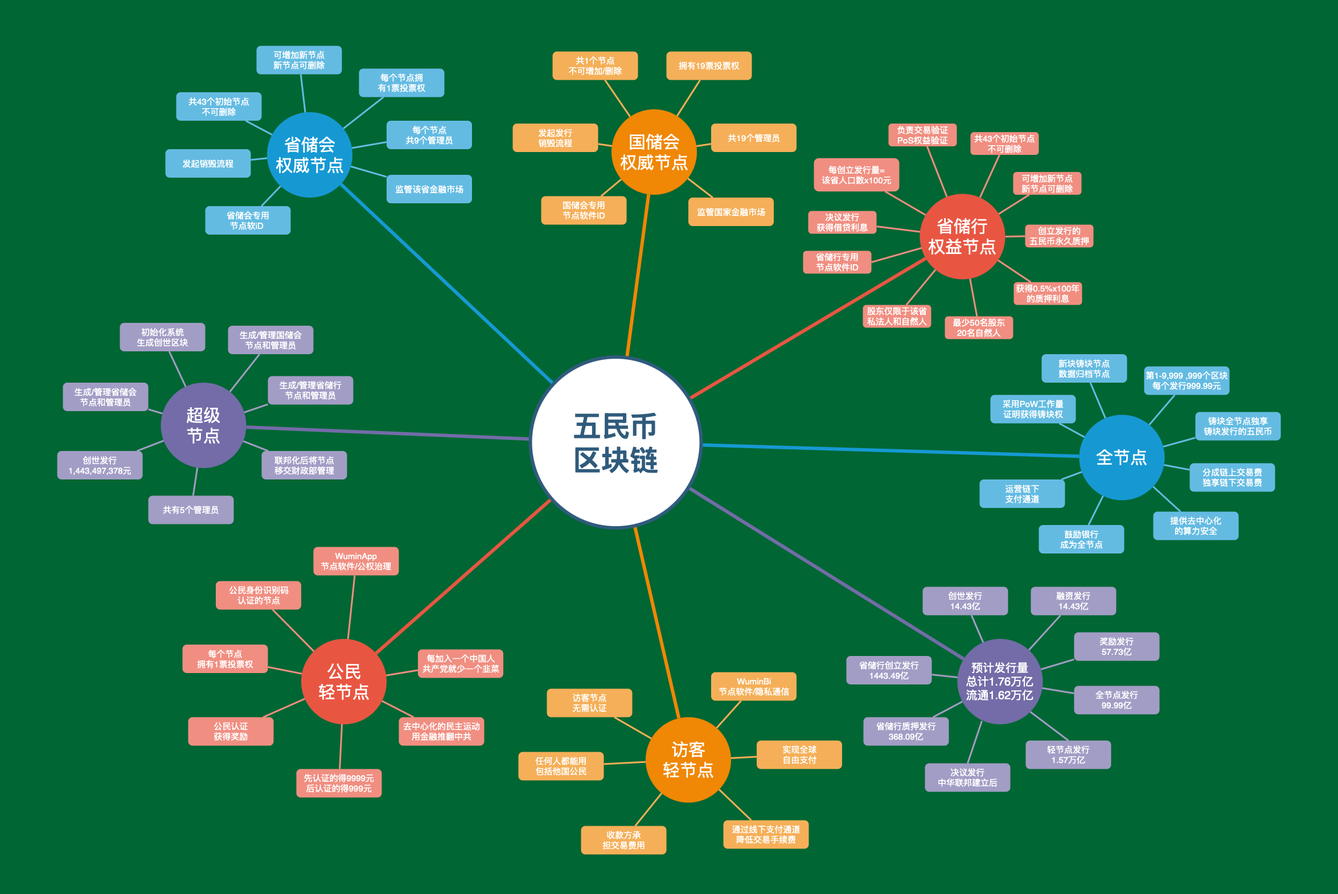
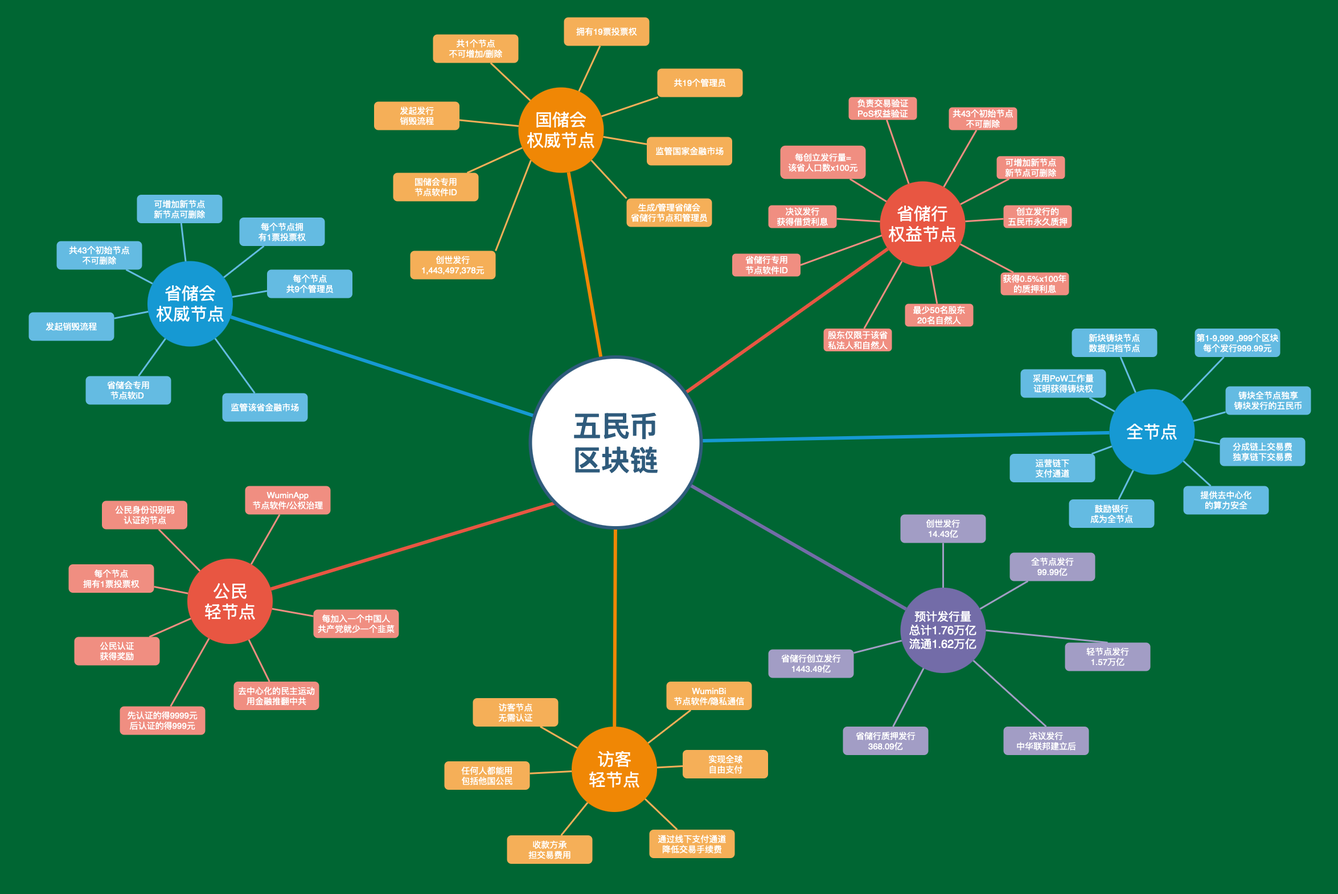
gx

diff --git a/README.md b/README.md
@@ -15,27 +15,24 @@
   <summary>2. 节点设置</summary>
 
   [2.1. 节点类型](#21节点概览)
-  [2.2. 超级节点](#22超级节点)
-  [2.3. 国储会权威节点](#23国储会权威节点)
-  [2.4. 省储会权威节点](#24省储会权威节点)
-  [2.5. 省储行权益节点](#25省储行权益节点)
-  [2.6. 全节点](#26全节点)
-  [2.7. 公民轻节点](#27公民轻节点)
-  [2.8. 访客轻节点](#28访客轻节点)
+  [2.2. 国储会权威节点](#22国储会权威节点)
+  [2.3. 省储会权威节点](#23省储会权威节点)
+  [2.4. 省储行权益节点](#24省储行权益节点)
+  [2.5. 全节点](#25全节点)
+  [2.6. 公民轻节点](#26公民轻节点)
+  [2.7. 访客轻节点](#27访客轻节点)
   </details>
 
 - <details>
   <summary>3. 发行与销毁</summary>
 
   [3.1. 创世发行](#31创世发行)
-  [3.2. 融资发行](#32融资发行)
-  [3.3. 奖励发行](#33奖励发行)
-  [3.4. 省储行创立发行](#34省储行创立发行)
-  [3.5. 省储行质押发行](#35省储行质押发行)
-  [3.6. 全节点发行](#36全节点发行)
-  [3.7. 轻节点发行](#37轻节点发行)
-  [3.8. 决议发行](#38决议发行)
-  [3.9. 销毁](#39销毁)
+  [3.2. 省储行创立发行](#32省储行创立发行)
+  [3.3. 省储行质押发行](#33省储行质押发行)
+  [3.4. 全节点发行](#34全节点发行)
+  [3.5. 轻节点发行](#35轻节点发行)
+  [3.6. 决议发行](#36决议发行)
+  [3.7. 销毁](#37销毁)
   </details>
 
 - <details>
@@ -72,7 +69,7 @@
 ****
 # 1.总则
 ## 1.1.目的与背景
-* 基于区块链技术用于推动由五民党发起的<<去中心化民主运动>>的主权区块链系统，创立五民币区块链，推广去中心化民主运动，以建立自由民主的中华民族联邦共和国；
+* 基于区块链技术用于推动由五民党发起的<<去中心化民主运动>>的主权区块链系统，创立五民币区块链，推广去中心化民主运动，以建立自由民主的中华民族联邦共和国————中华联邦；
 * 五民币区块链是一个不受任何机构掌控的主权区块链系统，一个所有人都能自由使用的法定货币系统，一个所有中华民族联邦共和国公民都能参与投票治理的法定区块链系统；
 * 五民币区块链是一个结合公权、金融、市场和区块链的综合系统，将民主化运动和建立联邦制共和国与去中心化的区块链系统深度绑定，以此构建一个具有公信、安全、开放、透明、高效的主权区块链系统。
 
@@ -85,13 +82,11 @@
 ## 1.3.发行量概览
    |    发行类型      |            发行金额/简述            |         发行方       |          备注             |
    |:---------------:|:---------------------------------:|:-------------------:|:------------------------:|
-   |   创世发行       |   1,443,497,378.00元 = 14.43亿     |       超级节点       | 创始团队持有               |
-   |   融资发行       |   1,443,497,378.00元 = 14.43亿     |        国储会        | 国储会发行，早起参与者认购   |
-   |   奖励发行       |   5,773,989,512.00元 = 57.73亿      |    奖励发行智能合约   | 发行即存入奖励智能合约      |
-   |   省储行创立发行  |   144,349,737,800.00元 = 1443.49亿  |       省储行        | 发行即存入质押钱包         |
-   |   省储行质押发行  |   36,809,183,139.00元 = 368.09亿    |   质押发行智能合约    | 发行即存入质押智能合约      |
+   |   创世发行       |   1,443,497,378.00元 = 14.43亿     |        国储会        | 国储会持有               |
+   |   省储行创立发行  |   144,349,737,800.00元 = 1443.49亿  |       省储行        | 质押钱包永久质押         |
+   |   省储行质押发行  |   36,809,183,139.00元 = 368.09亿    |   质押发行智能合约    | 质押发行智能合约持有      |
    |   全节点发行     |   9,999,899,000.01元 = 99.99亿      |        全节点        | 写入PoW共识              |
-   |   轻节点发行     |   1,571,981,633,622.00元 = 1.57万亿  |   轻节点发行智能合约   | 发行即存入公民认证智能合约  |
+   |   轻节点发行     |   1,571,981,633,622.00元 = 1.57万亿  |   轻节点发行智能合约   | 公民认证智能合约持有  |
    |   决议发行      |       中华联邦建立后，联储会决议        |        国储会        |  公民轻节点可投票否决发行   |
    | **总发行量**    |            **1.76万亿**             |          -          |           -            |
    | **总流通量**    |            **1.62万亿**             |          -          |           -            |
@@ -106,84 +101,59 @@
 ****
 # 2.节点设置
 ## 2.1.节点概览
-   |  节点  | 超级节点  | 国储会权威节点  | 省储会权威节点  | 省储行权益节点 |     全节点     |  公民轻节点  |  访客轻节点 |
-   |:-----:|:--------:|:-------------:|:------------:|:------------:|:-------------:|:-----------:|:---------:|
-   |  数量  |     1个  |    1个         |      43个    |    43个      |     无限      |    无限      |   无限    |
-   |  功能  | 系统初始化 | 国家铸币权、监管 | 省铸币权、监管 |  交易验证     | 铸块、链下通道 |  监督、支付  | 跨国界支付 |
+   |  节点  | 国储会权威节点  | 省储会权威节点  | 省储行权益节点 |     全节点     |  公民轻节点  |  访客轻节点 |
+   |:-----:|:-------------:|:------------:|:------------:|:-------------:|:-----------:|:---------:|
+   |  数量  |    1个         |      43个    |    43个      |     无限      |    无限      |   无限    |
+   |  功能  | 国家铸币权、监管 | 省铸币权、监管 |  交易验证     | 铸块、链下通道 |  监督、支付  | 跨国界支付 |
 
 ![alt text](https://raw.githubusercontent.com/wumindang/WMB/main/文档库/节点图.png)
-## 2.2.超级节点
-* 有1个超级节点，不能增删改，负责初始化系统，并生成创世区块，在完成区块链初始化后，保留增删改新省储会、增删改新省储行、升级逻辑功能智能合约和交易钱包收入与支出权限；
-* 生成创世区块的同时生成国储会权威节点和所有初始省储会权威节点、初始省储行权益节点；
-* 使用超级节点软件，且只有一个交易钱包地址，并拥有5个管理员，采用N=5，T≥3的门限签名。
-## 2.3.国储会权威节点  
+## 2.2.国储会权威节点  
 * 有1个国储会权威节点，不能增删改，拥有19个管理员，分别对应国家储备委员会的19个委员；
 * 使用国储会权威节点软件，且只有一个交易钱包地址，采用N=19，T≥13的门限签名，签名通过则19票同时生效，反之则19票同时否决；
-* 国储会权威节点软件能发起投票、发行和销毁数字五民币等流程，并承担数据归档，国储会节点发起发行、销毁流程的，需权威节点间投票（国储会、省储会）,且公民轻节点可投票驳回。
-## 2.4.省储会权威节点  
+* 国储会权威节点软件拥有发起投票、发行数字五民币、销毁数字五民币、增删改新省储会、增删改新省储行、升级公民轻节点认证发行智能合约和交易钱包收入与支出等功能，并承担数据归档和引导节点；
+* 国储会节点发起发行数字五民币、销毁数字五民币、增删改新省储会、增删改新省储行、升级公民轻节点认证发行智能合约流程的，需权威节点间投票（国储会、省储会）,且公民轻节点可投票驳回。
+## 2.3.省储会权威节点  
 * 有43个初始省储会权威节点，不能增删改，拥有9个管理员，分别对应省储备委员会的9个委员，可新增省储会节点，新增节点可删改；
 * 使用省储会权威节点软件，且只有一个交易钱包地址，采用N=9，T≥6的门限签名，签名通过则生效，反之则否决；
 * 省储会权威节点能发起投票和销毁数字五民币等流程，并承担数据归档，省储会发起销毁本省储会持有的数字五民币的，仅需本省储会通过即可，但公民轻节点可投票驳回。
-## 2.5.省储行权益节点    
+## 2.4.省储行权益节点    
 * 有43个初始省储行权益节点，不能增删改，拥有9个管理员，分别对应省储行的9个董事会成员，可新增省储行节点，新增节点可删改； 
 * 使用省储行权益点软件，采用N=9，T≥6的门限签名，签名通过则生效，反之则否决，并承担数据归档；
 * 拥有1个交易钱包地址和1个质押钱包地址，质押钱包只有接收数字五民币的权限，用于质押省储行创立发行的数字五民币。
-## 2.6.全节点    
+## 2.5.全节点    
 * 全节点是数据归档和新块铸块节点，负责所有新区块的铸造，新区块特指除创世区块以外的所有区块，采用PoW共识机制获得铸块权；  
 * 全节点数量不限，部署运行全节点软件的即是全节点，任何组织、任何人均可下载安装全节点软件成为全节点，采用N=5，T≥3的门限签名；
 * 全节点可开通运营链下支付通道，并获得所运营的链下支付通道交易的全部手续费。  
-## 2.7.公民轻节点 
+## 2.6.公民轻节点 
 * 使用WuminApp轻节点软件，并使用联邦公民身份识别码（CIIC）完成轻节点认证，拥有1个交易钱包地址；
 * 公民轻节点ID、交易钱包地址和公民身份识别码一对一绑定，完成绑定后可获得投票。  
-## 2.8.访客轻节点
+## 2.7.访客轻节点
 * 访客轻节点无需注册，下载安装WuminBi节点App即可使用，没有投票权；
 * 访客轻节点可生成N个钱包地址。
 
 ****
 # 3.发行与销毁
 ## 3.1.创世发行
-* 创世发行1,443,497,378.00元数字五民币（14.43亿元），由创世区块发行，创始团队所有,创世发行量以中共第7次人口普查数据为基准，每一个中共国人发行1.00元；
-   |    中共第7次人口普查数据   |          创世发行量       |    持有地址(超级节点交易钱包地址)      |
-   |:-----------------------:|:-----------------------:|:-----------:|
-   |    1,443,497,378人      |   1,443,497,378.00元     |   xxxxxx   |   
-* 一个人在社会中享有若干权益的同时，同样应尽若干义务，尽了若干义务的，亦应享受若干权益，创世发行寓意每一个中共国人支付1.00元，以支持五民主义和去中心化民主运动。  
-## 3.2.融资发行
-* 融资发行1,443,497,378.00元数字五民币（14.43亿元），融资购买价格为每1.00元数字五民币0.001USDT，即1USDT=1000.00元数字五民币；单笔购买金额超过1,000,000.00元数字五民币的，在五民币区块链上线后将获得1:4的空投奖励，单笔购买少于1.000,000.00元的不计入奖励资格，预计融资额1,443,497.378USDT（144.34万USDT），由国储会权威节点发行；
-* 国储会地址
-   |           国储会交易钱包地址         |                国储会USDT钱包地址             | 
-   |:---------------------------------:|:-------------------------------------------:|
-   |  xxxxxxxxxx                       |  0x6c9c46D9c9aA4411422D92401D8A7445645CD1f4 | 
-* 融资用途
+* 创世发行1,443,497,378.00元数字五民币（14.43亿元），创世发行量以中共第7次人口普查数据为基准，每一个中共国人发行1.00元数字五民币；
+   |    中共第7次人口普查数据   |          创世发行量       |    国储会五民币交易钱包地址      |           国储会USDT钱包地址               |
+   |:-----------------------:|:-----------------------:|:---------------------------------------:|:---------------------------------------:|
+   |    1,443,497,378人      |   1,443,497,378.00元     |   xxxxxx                                |   0x5f6ffe832d1af30cb732959bcfca9725e82e32b9 |
+* 一个人在社会中享有若干权益的同时，同样应尽若干义务，尽了若干义务的，亦应享受若干权益，创世发行寓意每一个中共国人支付1.00元，以支持《五民主义》和《去中心化民主运动》；  
+* 创世发行1,443,497,378.00元数字五民币，兑换价格为每0.001USDT兑换1.00元数字五民币，即1USDT=1000.00元数字五民币，预计融资额1,443,497.378USDT（144.34万USDT），由国储会权威节点发行并持有；
+* 资金用途
    |          项目                            |     占比    |  预算金额（USDT）  |
    |:--------------------------------------------:|:-----------:|:---------------:|
-   |中华民族联邦共和国国家官方网站的开发               |  0.69%      |     1.0万        |
-   |中国五民党官方网站的开发                         |  0.69%      |     1.0万        |
-   |五民币金融区块链系统的开发                       |  13.86%     |     20.00万      |
-   |联邦公民身份识别码系统的开发                     |   3.46%     |     5.00万       |  
-   |联邦公民护照管理系统的开发                       |   3.46%     |     5.00万       |
-   |WuminApp匿名社交软件的开发（含公民轻节点钱包功能）   |   6.93%     |     10.00万      |
+   |中华联邦国家官网开发               |  0.69%      |     1.0万        |
+   |中国五民党官网开发                         |  0.69%      |     1.0万        |
+   |五民币区块链开发                       |  13.86%     |     20.00万      |
+   |联邦公民身份识别码系统开发                     |   3.46%     |     5.00万       |  
+   |联邦公民护照管理系统开发                       |   3.46%     |     5.00万       |
+   |WuminApp匿名社交软件开发（含公民轻节点功能）   |   6.93%     |     10.00万      |
    |市场推广与社区建设                              |   13.86%    |    20.00万      |
    |交易所及流动性相关费用                          |   20.78%     |    30.00万      |
    |法律、管理及其他费用                            |   6.93%     |     10.00万     |
    |五民党安全基金                                 |   29.34%    |    42.35万      | 
-
-* 购买融资发行五民币单笔购买金额超过100万元数字五民币的用户，将获得空投奖励，空投奖励为1:4;
-   |     类型    |       奖励金额      |  奖励方式    |              奖励要求                  |
-   |:----------:|:--------------:|:-----------:|:----------------------------------:|
-   |  融资发行   |   每1元奖励4元   |   奖励发行   |   每笔购买100万元五民币及以上    |
-   |  其他发行   |      无奖励     |       -     |                  -                 |
-
-## 3.3.奖励发行
-* 购买融资发行五民币的用户，由系统智能合约发行对应的数字五民币空投到用户的五民币钱包地址，空投规则如下：
-   |1、购买且单笔超过100万元融资发行五民币的用户；<br>2、提供购买融资发行五民币的USDT转账记录和钱包地址<br>3、提供公民轻节点钱包地址并完成公民轻节点认证。 |
-   |:---------------------------------------|
-
-* 奖励发行最大总量=融资发行量x4，如下所示：
-   |    类型   |       发行量         |      简述     |
-   |:--------:|:-------------------:|:-------------:|
-   |  融资发行 |  1,443,497,378.00元  |   14.43亿元   | 
-   |  奖励发行 |  5,773,989,512.00元  |   57.73亿元   |
-## 3.4.省储行创立发行
+## 3.2.省储行创立发行
 * 生成省储行节点的，即发行该省总人口数x100的数字五民币，各省人口以中共第7次人口普查数据为基准（已做省份调整），共计发行144,349,737,800元；  
    |  序号  |    省份     |     人口数量       |          发行金额           |       简述        |
    |:-----:|:-----------:|:----------------:|:--------------------------:|:-----------------:|
@@ -232,7 +202,7 @@
    |  42   |   兴安省     |   3,991,080人    |     399,108,000.00元        |    3.99亿元       |  
    |  43   |   合江省     |   8,738,458人    |     873,845,800.00元        |    8.73亿元       |  
 * 各省储行发行量之和可少于144,349,737,800.00元，但不得超过144,349,737,800.00元，省储行创立发行的数字五民币发行后即汇入该省储行质押钱包，并永久质押；    
-## 3.5.省储行质押发行
+## 3.3.省储行质押发行
 * 各省储行质押的数字五民币，由系统质押发行支付100年的质押利息,由系统以智能合约方式在每个自然年结束后自动发行并存入各个省储行交易钱包；  
 * 质押发行的数字五民币归各省储行所有，质押满100年后，即永久停止质押发行，不再支付质押利息；  
 * 质押发行的初始年利率为5.0‰，从第一年开始以线性衰减的方式每两年减少0.1‰，以广东省省储行和广西省省储行为例，收益如下：  
@@ -245,7 +215,7 @@
    |  第100年  |   0.1‰    |       1,060,128.64元                   |    501,268.04元                            | 
    |  第101年  |   0.0‰    |       0.00元                           |    0.00元                                  |
 
-## 3.6.全节点发行
+## 3.4.全节点发行
 * 运行全节点的每铸造一个新区块，系统发行999.99元数字五民币用于奖励该节点，全节点铸块发行为第1个至第9,999,999个区块，共计发行量为9,999,899,000.01元数字五民币；
    | 单个区块发行量  |    可发行的区块总量   |     总发行量          |     简述      |
    |:------------:|:-------------------:|:--------------------:|:-------------:|
@@ -254,7 +224,7 @@
    |  区块高度   | 第1个区块   |  第2个区块   |  第9,999,999个区块  |   第10,000,000个区块   |
    |:---------:|:-----------:|:------------:|:----------------:|:-------------------:|
    |**发行金额**|  999.99元  |  999.99元  |    999.99元    |       停止发行        | 
-## 3.7.轻节点发行
+## 3.5.轻节点发行
 * 使用联邦公民身份识别码完成轻节点认证的，将获得认证奖励，可获得认证奖励的轻节点总量为1,443,497,378个，前14,436,417个认证的轻节点，每个认证的轻节点奖励9999.00元；第14,436,417个之后再认证的轻节点，每个认证的轻节点奖励999.00元；  
    |   阶段   |    认证节点数     |  单节点发行金额  |        总发行量          |      简述       |
    |:-------:|:----------------:|:-------------:|:-----------------------:|:--------------:|
@@ -264,18 +234,18 @@
 * 所有获得公民轻节点认证发行的奖励，均处于锁定状态，在持有该轻节点的公民完成《公民素质教育》题库学习合格后，即可解锁奖励资金，公民轻节点发行智能合约自动发放奖励；  
 * 达到轻节点发行总量后，再认证的轻节点不再获得奖励，认证发行奖励以先完成认证优先获得，每个公民身份识别码仅能认证一次；  
 * 轻节点发行能让更多的公民参与去中心化的民主运动，早日推翻共产党，通过轻节点发行，鼓励更多的公民学习《公民素质教育》题库，以提高公民的认知。  
-## 3.8.决议发行
+## 3.6.决议发行
 * 成立公民储备委员会后，由联储会决议发行或销毁数字五民币，经联储会联合会议决议通过后，由国储会权威节点发起发行，权威节点间投票发行；  
 * 适时发行纸质五民币，纸质五民币用以替换人民币，数字五民币与纸质五民币按1:1兑换，五民币与人民币自由兑换；  
 * 纸质五民币面额由1分、5分、10分、50分、1元、5元、10元、20元、50元、100元共10种面额。
-## 3.9.销毁
+## 3.7.销毁
 * 国储会权威节点可发起销毁所持有钱包内的五民币，国储会发起销毁流程的，需所有权威节点间投票，且公民轻节点可驳回；
 * 省储会权威节点可发起销毁所持有钱包内的五民币，省储会发起销毁流程的，需所有权威节点间投票，且公民轻节点可驳回。
 ****
 # 4.费用及利息
 ## 4.1.链上交易费
 * 链上交易费由1%的基础链上交易费+动态链上交易费组成，动态链上交易费默认为0元，由支付方自行选择金额，基础链上交易费为支付方必须支付的金额；  
-* 链上交易手续费的90%用于奖励铸块的全节点，10%支付给超级节点钱包用于社区建设，链下交易和纸质五民币的交易手续费不适用于此条规则；  
+* 链上交易手续费的90%用于奖励铸块的全节点，10%支付给国储会权威节点交易钱包用于社区建设，链下交易和纸质五民币的交易手续费不适用于此条规则；  
 * 由运营链下支付通道的节点上链结算链下交易的，除该节点所获得的收益需要支付链上交易手续费外，其余已经收取了链下交易手续费的那部分链下交易的金额，上链后将不再收取链上交易手续费。  
 ## 4.2.链下交易费
 * 链下交易手续费由开通运营链下支付通道的全节点自行设定，可设定的范围为0.1%至1%，链下交易费全部用于奖励运营链下支付通道的全节点，链下交易通道由全节点运营；  
@@ -291,7 +261,7 @@
 ### 5.1.1.基础规则
 * 使用智能合约编码规则投票，自动执行且不可篡改，智能合约明确各类投票事项，所有投票向全链广播，并采用密封投票技术，防止操纵、贿选等；
 * 权威节点负责发起投票、配置投票参数和结果发布，权益节点负责投票者身份、投票流程、投票结果验证，全节点负责将投票结果铸入区块链，所有节点均可监督投票；
-* 超级节点和访客轻节点无投票权，国储会权威节点有19票，其他节点每个节点1票，且公民轻节点必须通过公民认证后才拥有投票权；
+* 访客轻节点无投票权，国储会权威节点有19票，其他节点每个节点1票，且公民轻节点必须通过公民认证后才拥有投票权；
 * 每次投票的Token一次性使用，防止重复投票，且每次投票每个身份只能投一次票，所有投票的选项只有同意、反对或弃权，对于重复投票、无效身份投票的合约自动拒绝。
 ### 5.1.2.投票流程
 * 投票准备：权威节点在区块链上部署智能合约，设定投票内容、投票开始和结束时间等参数，并广播至全链可投票节点；
@@ -308,7 +278,7 @@
 * 非全票通过的联储会联合会议决议，有超过全链65%的可投票轻节点投票否决发行或销毁数字五民币决议的，可否定联储会发行或销毁数字五民币的决议；  
 * 满足联储会联合会议全票通过，且所有省储行节点均全票通过的决议，可直接生效，不再进入轻节点投票环节。  
 ## 5.3.增减省储会、省储行节点
-* 超级节点增加/减少新省储会、新省储行节点的，在国储会权威节点和现有省储会、省储行节点间投票，有超过65%的节点投票同意的，即通过，反之则否决。  
+* 国储会权威节点增加/减少新省储会、新省储行节点的，在国储会权威节点和现有省储会、省储行节点间投票，有超过65%的节点投票同意的，即通过，反之则否决。  
 * 超过全链65%的可投票轻节点投票否决增加/减少新省储会、新省储行投票的，可否定权威节点的投票结果。  
 ****
 # 6.技术开发
@@ -316,10 +286,10 @@
 * 采用模块化开发，开发初期就要做好为后期去框架的准备，并符合长期技术演进，为今后重构中国的政府、金融、通信等领域的应用预留扩展。
 ## 6.1.核心模块/core
 ### 6.1.1.区块链/block
-* 创世区块写入创世发行、融资发行、奖励发行、省储行创立发行、省储行质押发行、公民轻节点发行，其中，奖励发行、省储行质押发行和公民轻节点发行的五民币分别存入奖励发行智能合约、省储行质押发行智能合约和公民轻节点发行智能合约地址，创世发行、融资发行和省储行创立发行存入指定钱包地址；
+* 创世区块写入创世发行、省储行创立发行、省储行质押发行、公民轻节点发行，其中，省储行质押发行和公民轻节点发行的五民币分别存入省储行质押发行智能合约和公民轻节点发行智能合约地址，创世发行和省储行创立发行存入指定钱包地址；
 * 写入创世区块的五民宣言declaration of wumin：先有人类后有国家，是公民建立国家，国家是公民的国家，是公民治理国家，而不是国家统治公民，公民没有爱国的义务；国家政权的建立其基本原则是保护公民的生命权、自由权、财产权、反抗压迫权和选举与被选举权不受任何的非法侵犯，当国家政权无法保证这一基本原则时，公民有权有义务推翻这个政权，建立一个以保障公民生命权、自由权、财产权、反抗压迫权和选举与被选举权为基本原则的政权。
 * 写入创世区块的五民主义wuminism：中华民族联邦共和国国家名称是基于中华各民族悠久历史与璀璨文化的沉淀，全称为：中华民族联邦共和国，简称为：中华联邦，或中国及中华民国；中华民族联邦共和国是致力于推行五民主义———公民治理国家（民治）、实现民主共和（民主）、保障公民权利（民权）、建设民生社会（民生）、复兴民族文化（民族）———的联邦制共和国"。
-* 创世配置文件使用json定义区块链的创世状态，包括区块链名称、ID、网络标识、引导节点、创世状态、节点映射表等信息，其中，创世状态定义创世宣言、创世发行、融资发行、创世合约，以及持有创世发行五民币的各账户地址和金额。
+* 创世配置文件使用json定义区块链的创世状态，包括区块链名称、ID、网络标识、引导节点、创世状态、节点映射表等信息，其中，创世状态定义创世宣言、创世发行、创世合约，以及持有创世发行五民币的各账户地址和金额。
 ### 6.1.2.共识/consensus
 #### 6.1.2.1.工作量证明/PoW
 * 全节点使用PoW工作量证明共识获得铸块权；
@@ -327,36 +297,32 @@
 #### 6.1.2.2.权益证明/PoS
 * 全链所有交易均由省储行权益节点采用PoS权益验证，超过90%的验证者节点做出验证后即可交由全节点铸造区块，验证者节点的验证权益来自省储行质押钱包的质押；
 #### 6.1.2.3.权威证明/PoA
-* 含超级节点、国储会权威节点、省储会权威节点，超级节点负责区块链初始化、升级逻辑功能智能合约、增删改新省储会/新省储行，国储会权威节点负责发行和销毁，省储会权威节点参与发行和销毁；
+* 含国储会权威节点、省储会权威节点；
 ### 6.1.3.节点/nodes
-#### 6.1.3.1.超级节点/super_node
-* 超级节点ID：super_node_1,与交易钱包地址和PeerID绑定；
-* 门限签名：N=5，T≥3
-* 使用专用的超级节点软件，桌面端：Linux；
-#### 6.1.3.2.国储会节点/nrc_poa_node
-* 国储会节点ID：nrc_poa_node_1，与交易钱包地址和PeerID绑定；
+#### 6.1.3.1.国储会节点/nrc_poa_node
+* 国储会节点ID：nrc_poa_node，与交易钱包地址和PeerID绑定；
 * 门限签名：N=19，T≥13
 * 使用专用的国储会节点软件，桌面端：Linux；
-#### 6.1.3.3.省储会节点/prc_poa_nodes
+#### 6.1.3.2.省储会节点/prc_poa_nodes
 * 省储会节点ID：prc_poa_nodes_0001至prc_poa_nodes_0043，每个省储会节点ID绑定一个交易钱包地址和一个PeerID；
 * 门限签名：N=9，T≥6
 * 使用专用的省储会节点软件，桌面端：Linux；
-#### 6.1.3.4.省储行节点/prb_pos_nodes
+#### 6.1.3.3.省储行节点/prb_pos_nodes
 * 省储行节点ID：prb_pos_nodes_0001至prb_pos_nodes_0043，每个省储行节点ID绑定一个交易钱包地址、一个质押钱包地址和一个PeerID；
 * 门限签名：N=9，T≥6
 * 使用专用的省储行节点软件，桌面端：Linux；
-#### 6.1.3.5.全节点/full_pow_nodes
+#### 6.1.3.4.全节点/full_pow_nodes
 * 门限签名：N=5，T≥3
 * 使用通用的全节点软件，桌面端：Linux；
-#### 6.1.3.6.公民轻节点/citizen_nodes
+#### 6.1.3.5.公民轻节点/citizen_nodes
 * 公民轻节点PeerID、交易钱包地址和公民身份识别码CIIC绑定后拥有投票权，公民身份识别码由联邦公民身份识别码系统提供；
 * 使用通用的公民轻节点软件，WuminApp手机软件，iOS和Android，WuminApp是一个集成钱包、投票、视频、匿名社交的软件；
-#### 6.1.3.7.访客轻节点/guest_nodes
+#### 6.1.3.6.访客轻节点/guest_nodes
 * 使用通用的访客轻节点软件，WuminBi手机App，iOS和Android，WuminBi是官方轻节点钱包软件；
 ### 6.1.4.交易/transaction
 * 链上手续费：基础手续费1%，必须，付方支付；动态手续费默认0，支付方可自行设置，非必须；
 * 链下手续费：由开通链下支付通道的全节点自行设定，0.1%-1%，收方支付，链下支付通道清算；
-* 手续费分成：链上手续费的90%由铸块的全节点获得，10%由超级节点获得，链下手续费全部由运营链下支付通过的全节点获得；
+* 手续费分成：链上手续费的90%由铸块的全节点获得，10%由国储会权威节点获得，链下手续费全部由运营链下支付通过的全节点获得；
 * 链下交易上链的，除全节点获得的手续费外，不用再支付链上交易费，例：小李支付100元五民币给小习，使用的是2B全节点开通的链下支付通道，费率1%，那么小习收到99元，2B全节点收到1元，2B关闭通道上链的，那99元不用支付链上交易费，获得的1元需要支付链上交易费；
 ### 6.1.5.钱包/wallet
 * 使用Hierarchical Deterministic Wallet（层次确定性钱包），兼容比特币、以太坊、币安币等；
@@ -368,7 +334,7 @@
 * 使用64字节私钥通过sr25519生成32字节公钥；
 * 使用32字节公钥+主网ID（880711，4字节+2字节校验，采用SS58编码生成钱包地址。
 #### 6.1.5.1单一地址钱包/only_wallet
-* 单一地址钱包：超级节点、国储会、省储会、公民轻节点使用的钱包，交易钱包，这些节点使用的节点软件只能生成一个交易钱包地址；
+* 单一地址钱包：国储会、省储会、公民轻节点使用的钱包，交易钱包，这些节点使用的节点软件只能生成一个交易钱包地址；
 #### 6.1.5.2省储行钱包/prb_wallet
 * 双地址钱包：省储行使用的钱包，省储行节点软件仅能生成一个交易钱包地址和一个质押钱包地址;
 #### 6.1.5.3多地址钱包/hd_wallet
@@ -378,7 +344,7 @@
 ## 6.3.网络模块/network
 ### 6.3.1.libp2p
 * 节点使用PeerID发现网络，每个节点都有唯一的PeerID，通过网络密钥对生成；
-* 使用专用节点软件的节点，需将节点的PeerID和节点ID进行绑定，使用专用节点软件的节点有：超级节点、国储会节点、省储会节点、省储行节点；
+* 使用专用节点软件的节点，需将节点的PeerID和节点ID进行绑定，使用专用节点软件的节点有：国储会节点、省储会节点、省储行节点；
 ## 6.4.安全模块/security
 * 使用Blake2-256哈希算法，
 * 使用sr25519
@@ -389,34 +355,28 @@
 ### 6.6.1.cmd
 ## 6.7.应用模块/app
 ### 6.7.1.智能合约/smart
-#### 6.7.1.1.奖励发行合约/bonus_issue_smart
-* 合约地址：super_node_1_5ContractBonus... 
-* 持有金额：577398951200分；
-* 在购买了融资发行的用户满足奖励条件后，该智能合约自动向用户空投奖励；
-#### 6.7.1.2.质押发行合约/stake_issue_smart
-* 合约地址：super_node_1_5ContractBonus...
+#### 6.7.1.1.质押发行合约/stake_issue_smart
+* 合约地址：nrc_poa_node_5ContractBonus...
 * 持有金额：3680918313900分；
 * 智能合约记录每个省储行创立发行的质押资金总额、质押钱包地址和交易钱包地址，并按照利率公式计算（公式详见3.5省储行质押发行），得出该省储行的利息金额，在每年的12月30日，该智能合约自动向各省储行交易钱包支付利息；
-#### 6.7.1.3.公民轻节点发行智能合约/citizen_nodes_issue_smart
-* 合约地址：super_node_1_5ContractBonus...
+#### 6.7.1.2.公民轻节点发行智能合约/citizen_nodes_issue_smart
+* 合约地址：nrc_poa_node_5ContractBonus...
 * 持有金额：157198163362200分；
-* 在公民完成公民认证，并满足解锁条件之后，该智能合约自动向公民发放奖励，奖励金额详见3.7轻节点发行；
-#### 6.7.1.4.逻辑功能智能合约/logical_function_smart
-* 逻辑功能智能合约只能由超级节点部署和升级；
-* 逻辑智能合约是可以升级的智能合约，负责奖励发行智能合约和公民轻节点发行智能合约的逻辑功能的具体实现；
-* 奖励发行智能合约和公民轻节点发行智能合约的相关功能在此逻辑功能智能合约中实现，根据具体规则和要求区块链上线后升级；
+* 在公民完成公民认证，并满足解锁条件之后，该智能合约自动向公民发放奖励，奖励金额详见3.5轻节点发行；
+#### 6.7.1.3.逻辑功能智能合约/logical_function_smart
+* 逻辑功能智能合约只能由国储会权威节点部署和升级；
+* 逻辑智能合约是可以升级的智能合约，负责公民轻节点发行智能合约的逻辑功能的具体实现；
+* 公民轻节点发行智能合约的相关功能在此逻辑功能智能合约中实现，根据具体规则和要求在区块链上线后升级；
 ### 6.7.2.去中心化应用/dapp；
 ## 6.8.桌面前端/desktop
 * 所有桌面前端节点软件均使用Linux系统；
-### 6.8.1.超级节点/dt_super_node
-* 导入钱包，显示交易钱包余额、节点ID，发送和接收五民币，部署创世智能合约和升级逻辑功能智能合约；
-### 6.8.2.国储会/dt_nrc_node
+### 6.8.1.国储会/dt_nrc_node
+* 导入钱包，显示交易钱包余额、节点ID，发送和接收五民币，升级逻辑功能智能合约；
+### 6.8.2.省储会/dt_prc_node
 * 导入钱包，显示交易钱包余额、节点ID，发送和接收五民币；
-### 6.8.3.省储会/dt_prc_node
-* 导入钱包，显示交易钱包余额、节点ID，发送和接收五民币；
-### 6.8.4.省储行/dt_prb_node
+### 6.8.3.省储行/dt_prb_node
 * 导入钱包，显示交易钱包余额、质押钱包余额、节点ID，发送和接收五民币；
-### 6.8.5.全节点/dt_full_node
+### 6.8.4.全节点/dt_full_node
 * 生成钱包、导入钱包，显示交易钱包余额，发送和接收五民币；
 * 显示挖矿获得的奖励明细；
 ## 6.9.手机前端/mobile
